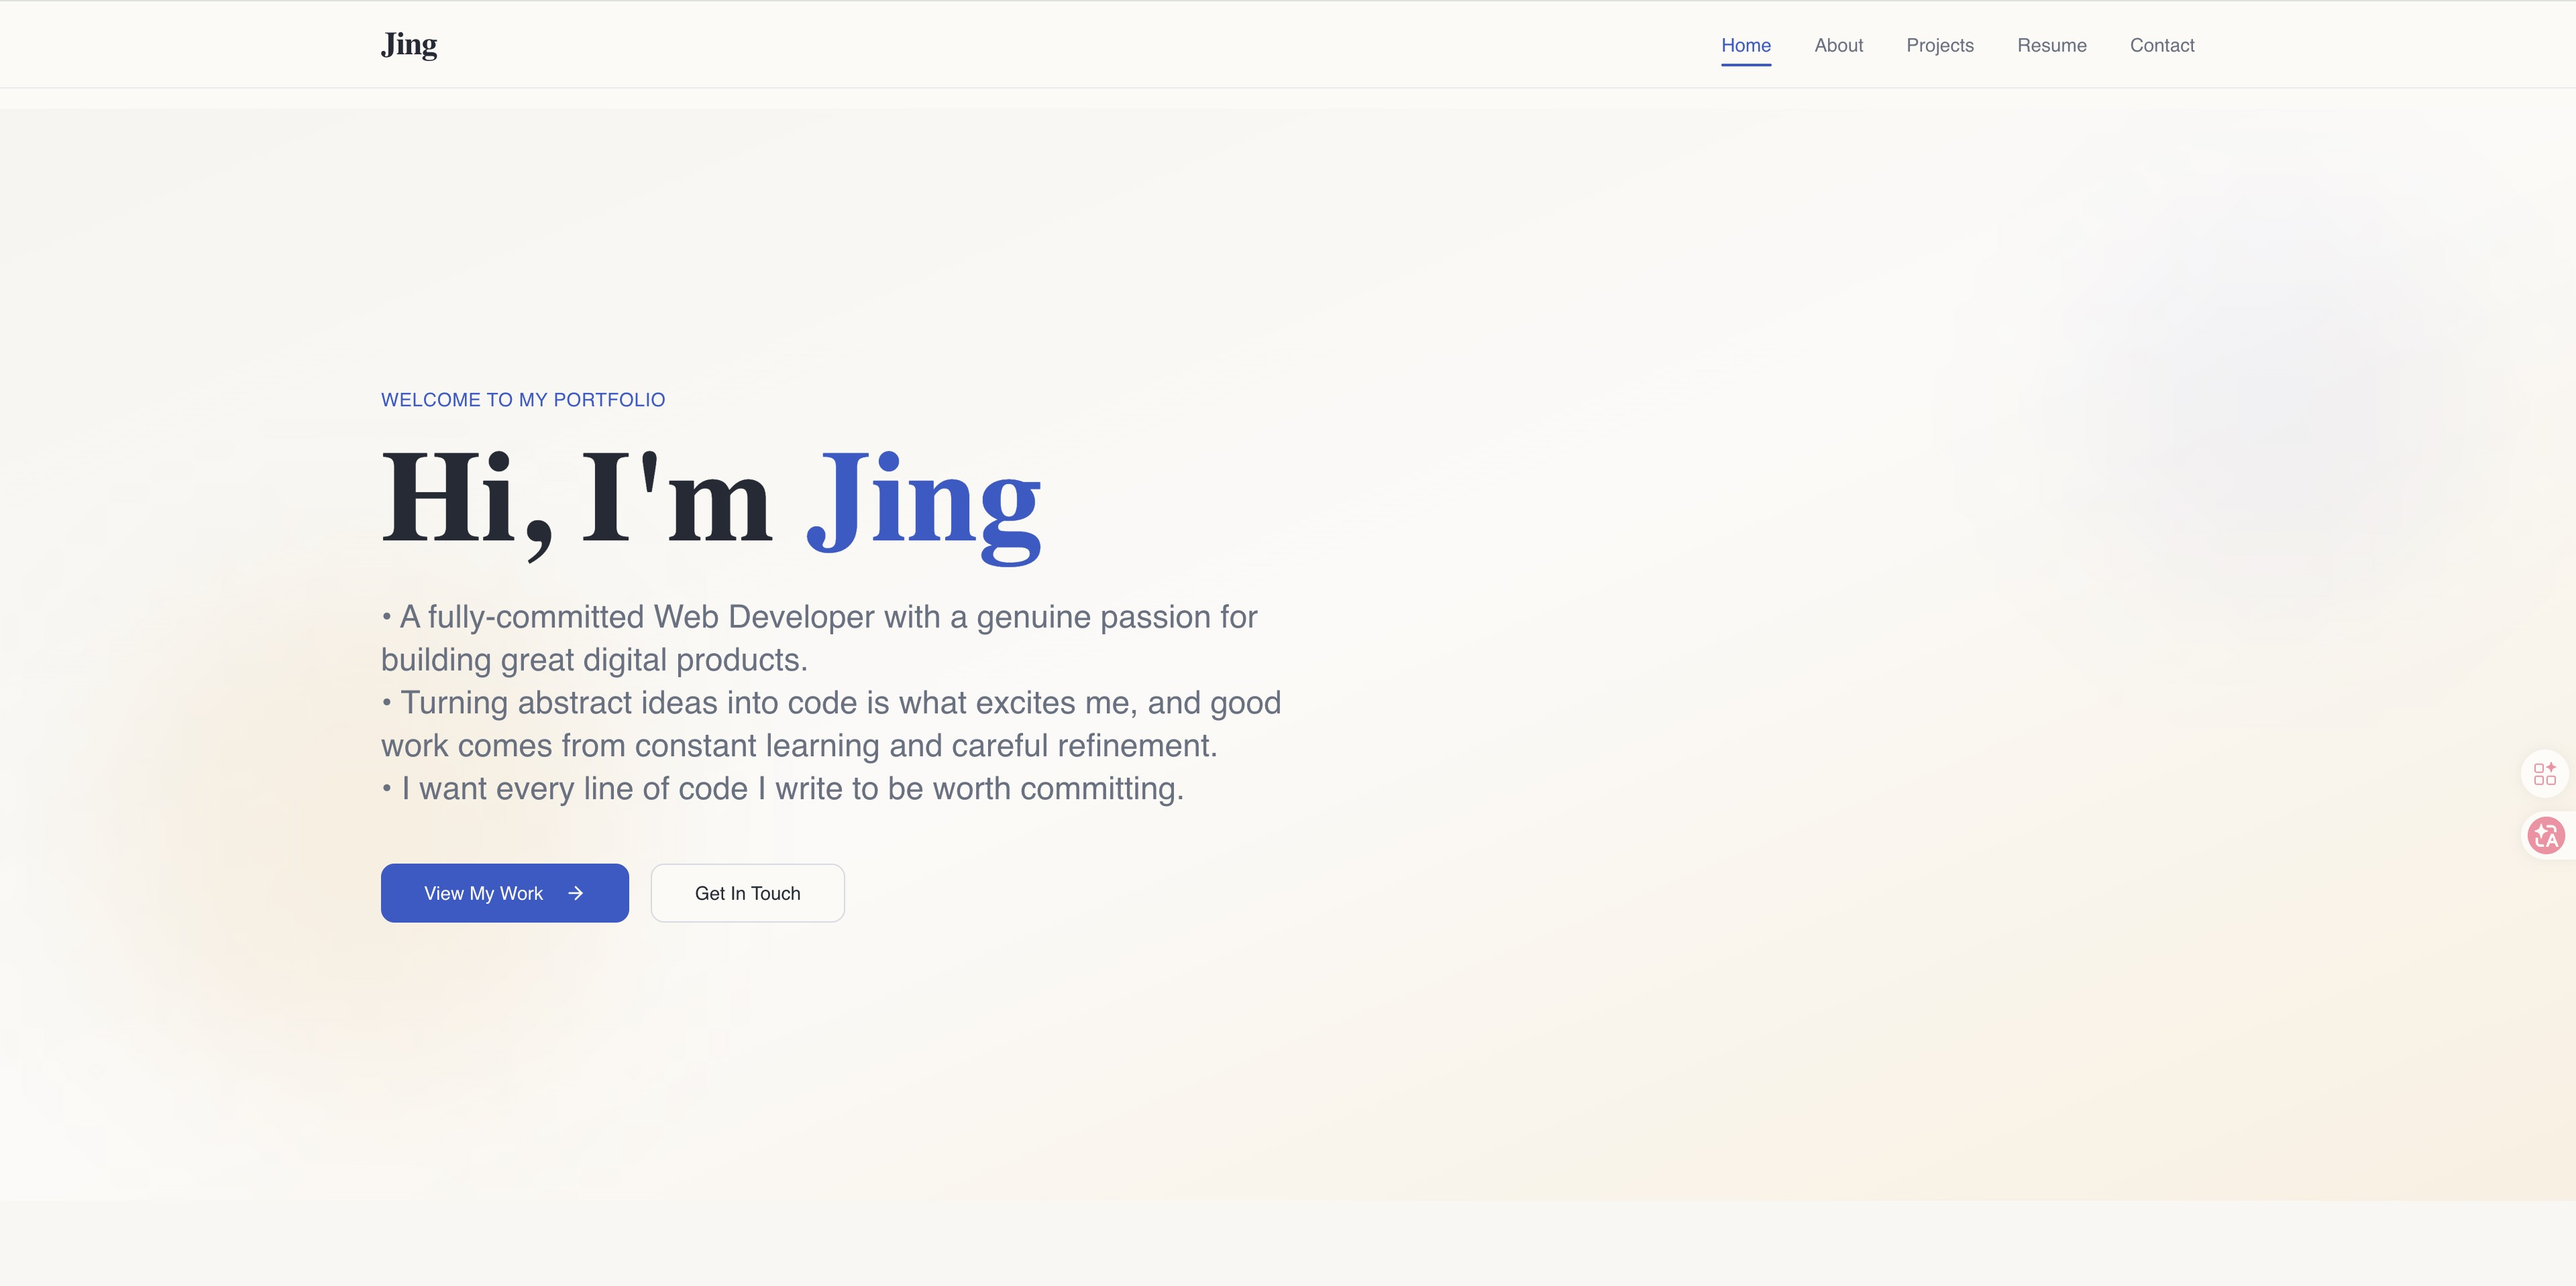
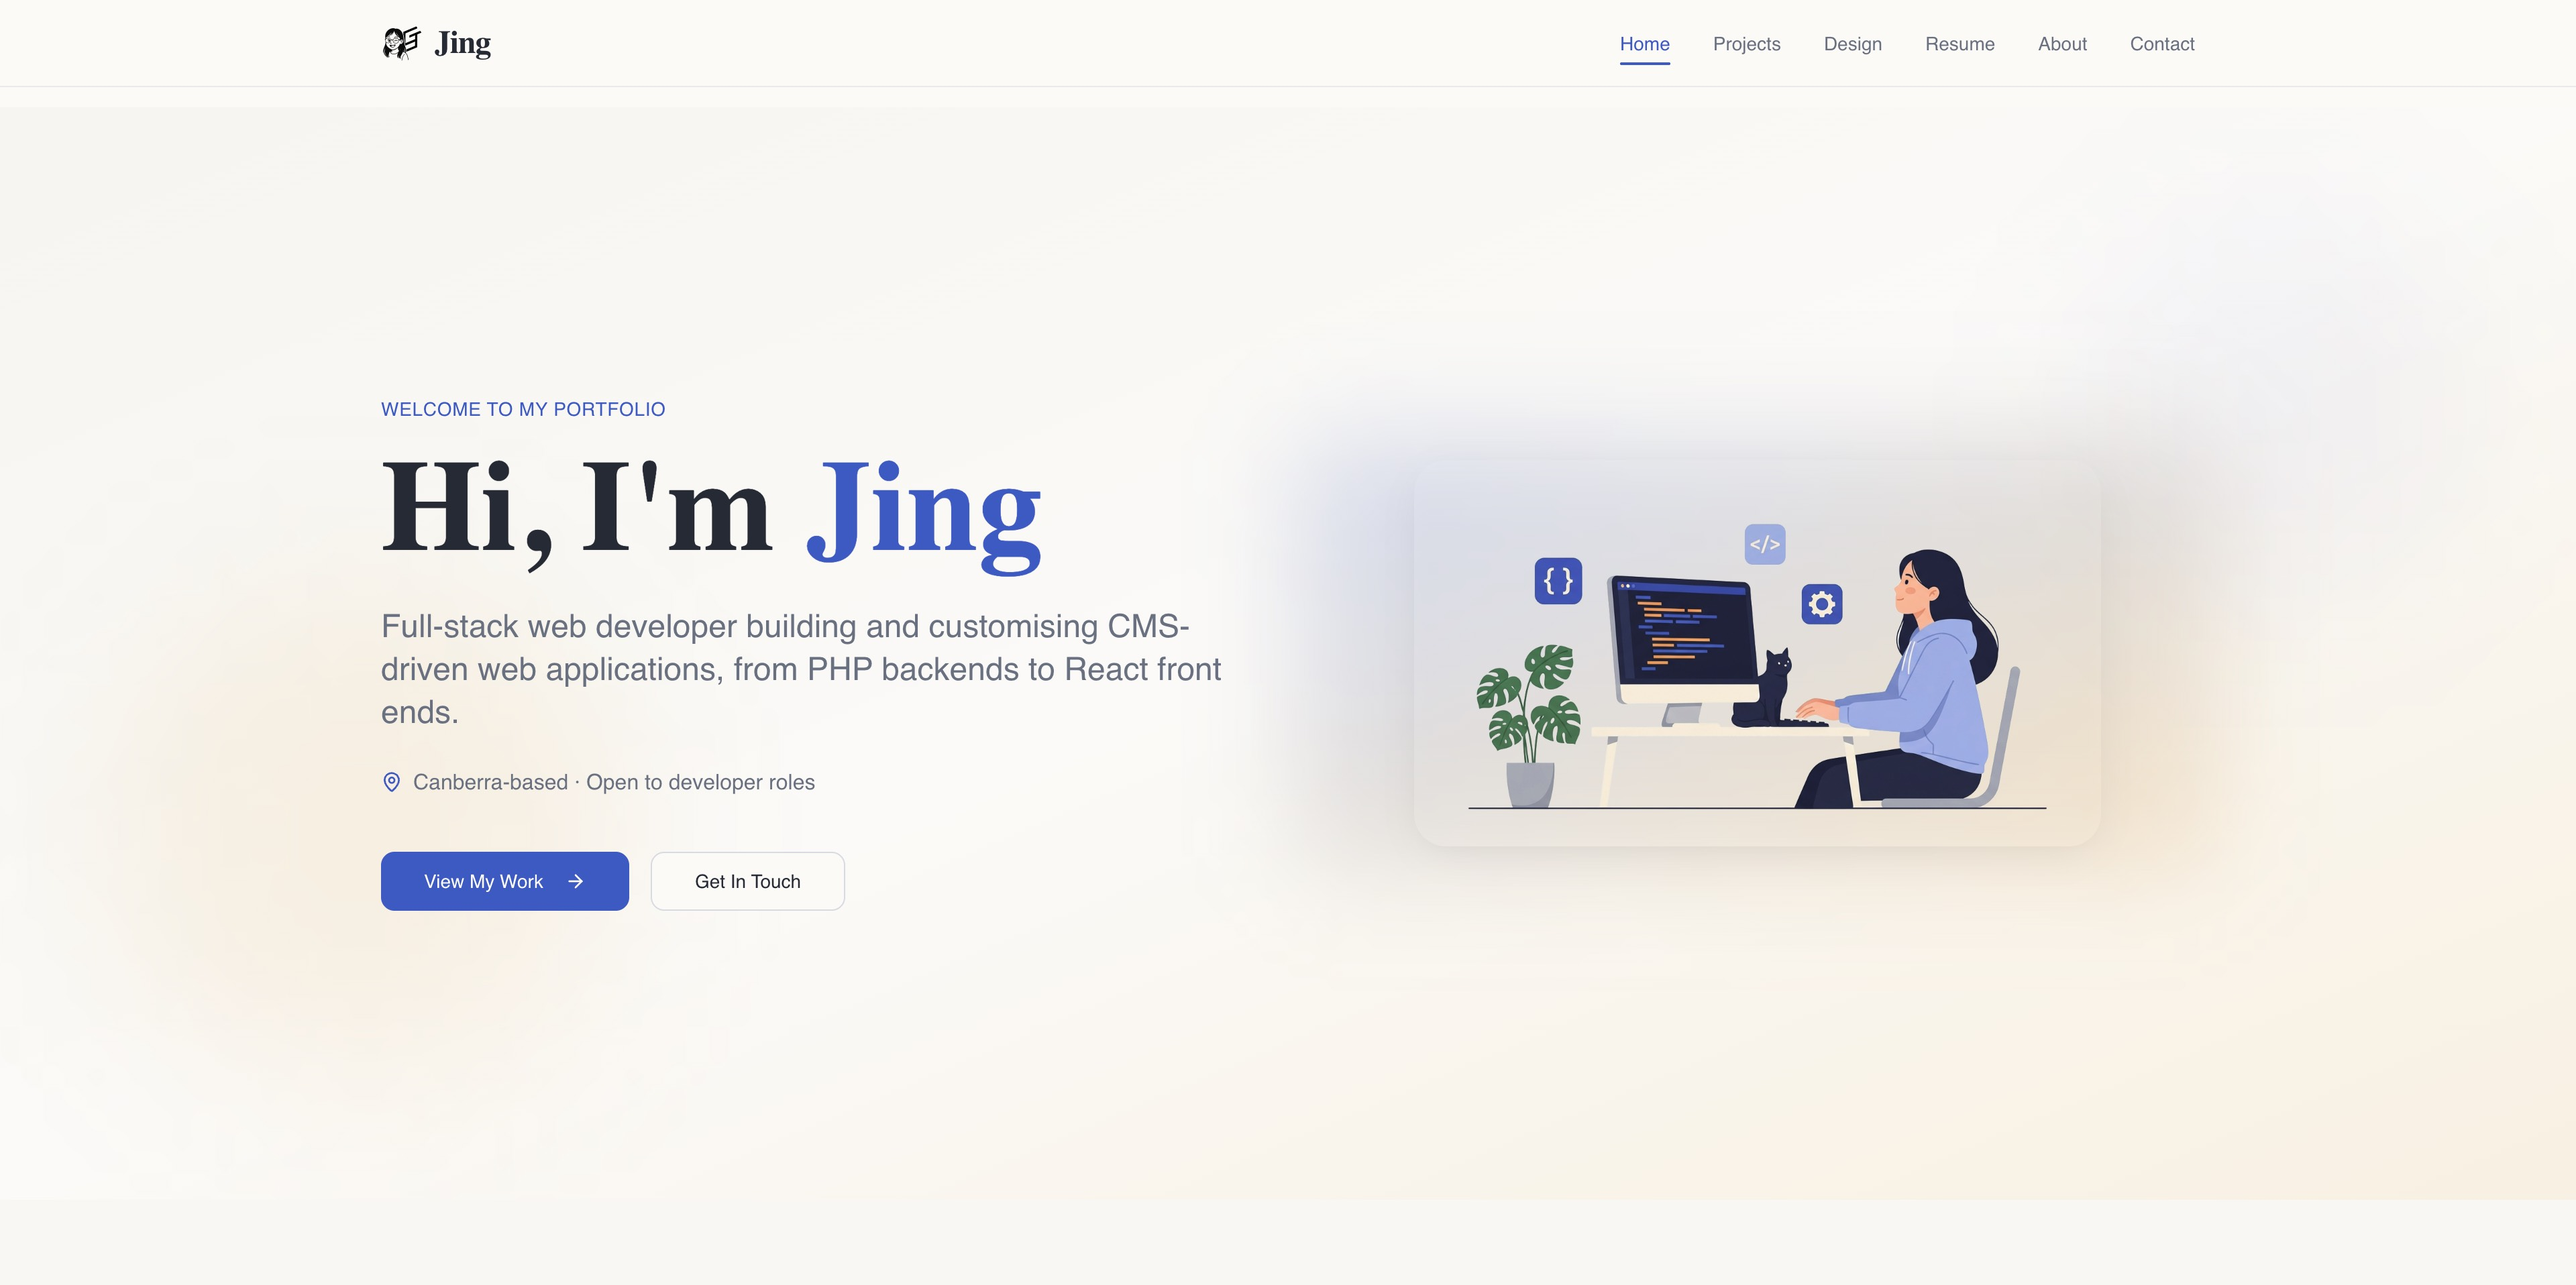
Replace PNG images with optimized WEBP format and update design work references for improved performance

diff --git a/src/data/design-works.ts b/src/data/design-works.ts
@@ -97,23 +97,29 @@ export const designWorks: DesignWork[] = [
       "Information Architecture",
       "UX Writing",
     ],
-    coverImage: "/agileware-cover.jpg",
+    coverImage: "/agileware-cover.webp",
     screens: [
       {
         label: "Homepage",
-        image: "/agileware-home.png",
+        image: "/agileware-home.webp",
         caption:
           "Service entry points framed as client questions, with case studies and resources.",
       },
       {
+        label: "CiviCRM Page",
+        image: "/agileware-civicrm.webp",
+        caption:
+          "CiviCRM services: lifecycle breakdown, migration steps, partner credentials and a case study.",
+      },
+      {
         label: "Service Page",
-        image: "/agileware-service.png",
+        image: "/agileware-service.webp",
         caption:
           "Member portals: capabilities, systems diagram, case study and FAQs.",
       },
       {
         label: "Contact Page",
-        image: "/agileware-contact-us.png",
+        image: "/agileware-contact-us.webp",
         caption: "Enquiry form with routing fields, alongside contact details.",
       },
     ],
